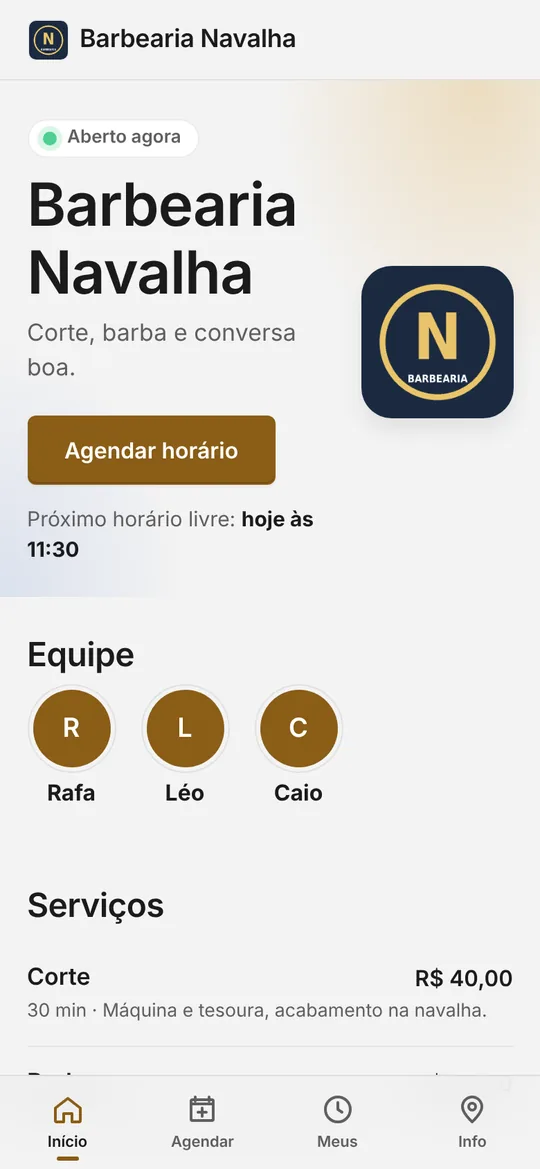
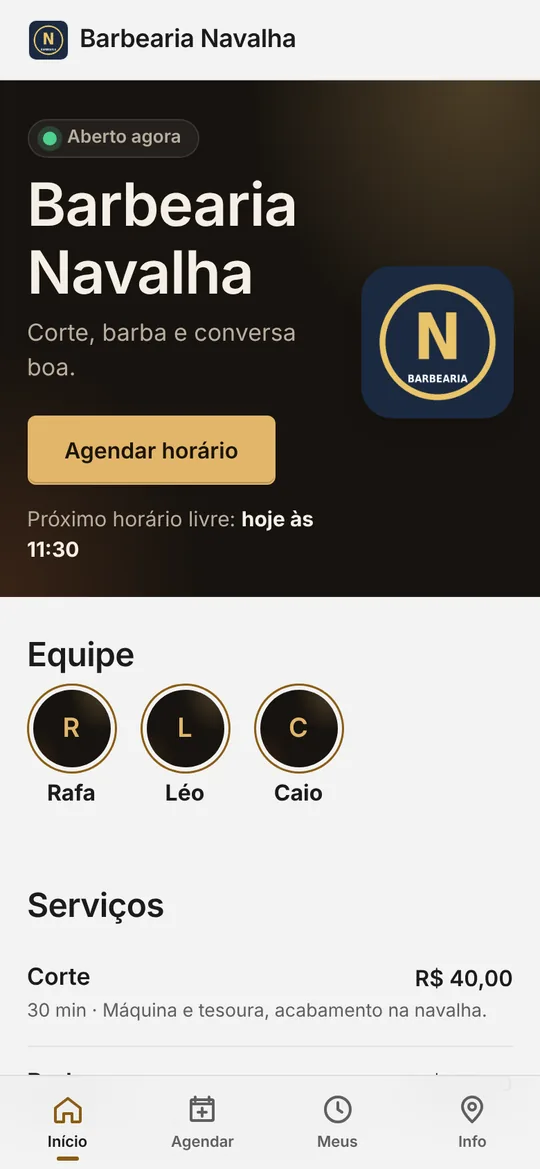
layout 3

diff --git a/404.html b/404.html
@@ -36,6 +36,9 @@
 <meta name="mobile-web-app-capable" content="yes">
 <meta name="apple-mobile-web-app-title" content="LKBarber">
 <meta name="apple-mobile-web-app-status-bar-style" content="black-translucent">
+<link rel="preconnect" href="https://fonts.googleapis.com">
+<link rel="preconnect" href="https://fonts.gstatic.com" crossorigin>
+<link href="https://fonts.googleapis.com/css2?family=Instrument+Serif:ital@0;1&display=swap" rel="stylesheet">
 <link rel="stylesheet" href="css/style.css">
 </head>
 <body>
@@ -45,7 +48,7 @@
 <div id="landing">
   <section class="l-hero">
     <div class="l-hero-txt">
-      <h1>A agenda da sua barbearia, no celular do cliente.</h1>
+      <h1>A agenda da sua barbearia, <em>no celular do cliente.</em></h1>
       <p class="l-sub">Seu link próprio, horários livres em tempo real e o cliente marca em 4 toques, só com o nome. Cada barbeiro com a sua agenda.</p>
       <div class="l-ctas"><a class="btn btn-grande" href="cadastro" data-link-l="/cadastro">Testar grátis por 14 dias</a>
         <a class="btn btn-grande btn-vidro" href="#planos">Ver planos</a></div>
@@ -67,7 +70,7 @@
   </section>
 
   <section class="band" id="antes-depois">
-    <h2>Chega de marcar horário no WhatsApp</h2>
+    <h2><span class="olho">Antes e depois</span>Chega de marcar horário <em>no WhatsApp</em></h2>
     <div class="antes-depois">
       <div class="ad antes"><h3>Sem o LKBarber</h3><ul>
         <li>Para o corte para responder "tem horário amanhã?"</li>
@@ -85,7 +88,7 @@
   </section>
 
   <section class="band palco" id="palco">
-    <h2>Marcou no celular dele, apareceu na sua agenda</h2>
+    <h2><span class="olho">Na prática</span>Marcou no celular dele, <em>apareceu na sua agenda</em></h2>
     <p class="palco-sub">Sem mensagem, sem anotar em caderno. O horário sai do celular do cliente e cai direto na agenda do barbeiro.</p>
     <div class="palco-cena" aria-hidden="true">
       <div class="pc-cel"><div class="pc-tela">
@@ -111,7 +114,7 @@
     </div>
   </section>
   <section class="band" id="beneficios">
-    <h2>Tudo o que a barbearia precisa</h2>
+    <h2><span class="olho">Recursos</span>Tudo o que a barbearia <em>precisa</em></h2>
     <div class="beneficios">
       <div class="bf"><svg viewBox="0 0 24 24" aria-hidden="true"><circle cx="12" cy="13" r="8"/><path d="M12 9v4l2.5 2M9 2h6M12 2v3M19 6l1.5-1.5"/></svg><h3>Agenda aberta 24h</h3><p>Domingo, madrugada, no meio do corte: o cliente marca sem você parar.</p></div>
       <div class="bf"><svg viewBox="0 0 24 24" aria-hidden="true"><path d="M7 3h7a2 2 0 0 1 2 2v6H7z"/><path d="M5 11h13v3H5zM4 9v5M19 9v5M8 14v4M15 14v4M6 18h11M11.5 18v3M8 21h7"/></svg><h3>Cada barbeiro com sua agenda</h3><p>O cliente escolhe com quem cortar ou "qualquer um". Cada barbeiro entra com o próprio login.</p></div>
@@ -123,7 +126,7 @@
   </section>
 
   <section class="band band-escura" id="telas">
-    <h2>Veja o app por dentro</h2>
+    <h2><span class="olho">Por dentro</span>Veja o app <em>de perto</em></h2>
     <p class="sub">Telas reais do LKBarber, com uma barbearia de exemplo.</p>
     <div class="telas" id="telasTrilho" tabindex="0" aria-label="Telas do app">
       <figure class="tela"><picture><source type="image/webp" srcset="img/tela-pagina.webp"><img src="img/tela-pagina.jpg" width="540" height="1169" loading="lazy" alt="Página da barbearia com logo, equipe e botão Agendar horário"></picture><figcaption><b>A página da barbearia</b>Seu logo, sua equipe, seus serviços e o próximo horário livre.</figcaption></figure>
@@ -135,7 +138,7 @@
   </section>
 
   <section class="band" id="como-funciona">
-    <h2>Como funciona</h2>
+    <h2><span class="olho">Passo a passo</span>Como <em>funciona</em></h2>
     <ol class="passos">
       <li><b>Crie sua barbearia</b><span>Escolha o endereço: <span class="dominio">lukbrdev.github.io/barbearia/</span><i>sua-barbearia</i>.</span></li>
       <li><b>Configure em minutos</b><span>Serviços, preços, horários, seu logo e a equipe. Cada barbeiro recebe um convite.</span></li>
@@ -144,7 +147,7 @@
   </section>
 
   <section class="band band-escura">
-    <h2>Um app, três visões</h2>
+    <h2><span class="olho">Para todo mundo</span>Um app, <em>três visões</em></h2>
     <div class="tres">
       <div><h3>Cliente</h3><ul><li>Agenda sem cadastro, só o nome</li><li>Escolhe o barbeiro ou "qualquer um"</li><li>Lembrete no calendário e aviso no WhatsApp</li><li>Cancela sozinho, sem ligar</li></ul></div>
       <div><h3>Barbeiro</h3><ul><li>Vê só a própria agenda</li><li>Conclui, marca falta, faz encaixe</li><li>Bloqueia as próprias folgas</li><li>Acompanha o que ganhou</li></ul></div>
@@ -153,7 +156,7 @@
   </section>
 
   <section class="band" id="planos">
-    <h2>Planos</h2>
+    <h2><span class="olho">Preços</span>Planos <em>sem surpresa</em></h2>
     <ul class="selos"><li>14 dias grátis</li><li>Sem fidelidade</li><li>Cartão, Pix ou boleto</li></ul>
     <div class="planos" id="lPlanos">
       <div class="plano"><h3>Solo</h3><p>Para quem atende sozinho.</p><p class="lim">1 barbeiro</p><a class="btn btn-sec" href="cadastro" data-link-l="/cadastro">Começar teste grátis</a></div>
@@ -165,7 +168,7 @@
   </section>
 
   <section class="band" id="perguntas">
-    <h2>Perguntas</h2>
+    <h2><span class="olho">Dúvidas</span>Perguntas <em>frequentes</em></h2>
     <details class="faq"><summary>O cliente precisa baixar algum app?</summary><p>Não. Ele abre o link da barbearia e agenda. Se quiser, instala na tela inicial pelo próprio navegador, com o ícone da sua barbearia.</p></details>
     <details class="faq"><summary>O cliente precisa criar conta?</summary><p>Não. Ele só digita o nome (e o WhatsApp, se você quiser pedir). Os horários dele ficam salvos no celular.</p></details>
     <details class="faq"><summary>E se dois clientes tentarem o mesmo horário?</summary><p>O sistema confere na hora de salvar. O segundo recebe o aviso e escolhe outro horário.</p></details>
@@ -177,7 +180,7 @@
   </section>
 
   <section class="band cta-final">
-    <h2>Comece hoje. Em 5 minutos sua agenda está no ar.</h2>
+    <h2>Comece hoje. <em>Em 5 minutos</em> sua agenda está no ar.</h2>
     <div class="l-ctas"><a class="btn btn-grande" href="cadastro" data-link-l="/cadastro">Criar minha barbearia grátis</a>
       <a class="btn btn-grande btn-ok" id="waVendas" href="https://wa.me/5538998504119?text=Ol%C3%A1!%20Quero%20saber%20mais%20sobre%20o%20LKBarber." target="_blank" rel="noopener">Tirar dúvidas no WhatsApp</a></div>
   </section>

diff --git a/index.html b/index.html
@@ -36,6 +36,9 @@
 <meta name="mobile-web-app-capable" content="yes">
 <meta name="apple-mobile-web-app-title" content="LKBarber">
 <meta name="apple-mobile-web-app-status-bar-style" content="black-translucent">
+<link rel="preconnect" href="https://fonts.googleapis.com">
+<link rel="preconnect" href="https://fonts.gstatic.com" crossorigin>
+<link href="https://fonts.googleapis.com/css2?family=Instrument+Serif:ital@0;1&display=swap" rel="stylesheet">
 <link rel="stylesheet" href="css/style.css">
 </head>
 <body>
@@ -45,7 +48,7 @@
 <div id="landing">
   <section class="l-hero">
     <div class="l-hero-txt">
-      <h1>A agenda da sua barbearia, no celular do cliente.</h1>
+      <h1>A agenda da sua barbearia, <em>no celular do cliente.</em></h1>
       <p class="l-sub">Seu link próprio, horários livres em tempo real e o cliente marca em 4 toques, só com o nome. Cada barbeiro com a sua agenda.</p>
       <div class="l-ctas"><a class="btn btn-grande" href="cadastro" data-link-l="/cadastro">Testar grátis por 14 dias</a>
         <a class="btn btn-grande btn-vidro" href="#planos">Ver planos</a></div>
@@ -67,7 +70,7 @@
   </section>
 
   <section class="band" id="antes-depois">
-    <h2>Chega de marcar horário no WhatsApp</h2>
+    <h2><span class="olho">Antes e depois</span>Chega de marcar horário <em>no WhatsApp</em></h2>
     <div class="antes-depois">
       <div class="ad antes"><h3>Sem o LKBarber</h3><ul>
         <li>Para o corte para responder "tem horário amanhã?"</li>
@@ -85,7 +88,7 @@
   </section>
 
   <section class="band palco" id="palco">
-    <h2>Marcou no celular dele, apareceu na sua agenda</h2>
+    <h2><span class="olho">Na prática</span>Marcou no celular dele, <em>apareceu na sua agenda</em></h2>
     <p class="palco-sub">Sem mensagem, sem anotar em caderno. O horário sai do celular do cliente e cai direto na agenda do barbeiro.</p>
     <div class="palco-cena" aria-hidden="true">
       <div class="pc-cel"><div class="pc-tela">
@@ -111,7 +114,7 @@
     </div>
   </section>
   <section class="band" id="beneficios">
-    <h2>Tudo o que a barbearia precisa</h2>
+    <h2><span class="olho">Recursos</span>Tudo o que a barbearia <em>precisa</em></h2>
     <div class="beneficios">
       <div class="bf"><svg viewBox="0 0 24 24" aria-hidden="true"><circle cx="12" cy="13" r="8"/><path d="M12 9v4l2.5 2M9 2h6M12 2v3M19 6l1.5-1.5"/></svg><h3>Agenda aberta 24h</h3><p>Domingo, madrugada, no meio do corte: o cliente marca sem você parar.</p></div>
       <div class="bf"><svg viewBox="0 0 24 24" aria-hidden="true"><path d="M7 3h7a2 2 0 0 1 2 2v6H7z"/><path d="M5 11h13v3H5zM4 9v5M19 9v5M8 14v4M15 14v4M6 18h11M11.5 18v3M8 21h7"/></svg><h3>Cada barbeiro com sua agenda</h3><p>O cliente escolhe com quem cortar ou "qualquer um". Cada barbeiro entra com o próprio login.</p></div>
@@ -123,7 +126,7 @@
   </section>
 
   <section class="band band-escura" id="telas">
-    <h2>Veja o app por dentro</h2>
+    <h2><span class="olho">Por dentro</span>Veja o app <em>de perto</em></h2>
     <p class="sub">Telas reais do LKBarber, com uma barbearia de exemplo.</p>
     <div class="telas" id="telasTrilho" tabindex="0" aria-label="Telas do app">
       <figure class="tela"><picture><source type="image/webp" srcset="img/tela-pagina.webp"><img src="img/tela-pagina.jpg" width="540" height="1169" loading="lazy" alt="Página da barbearia com logo, equipe e botão Agendar horário"></picture><figcaption><b>A página da barbearia</b>Seu logo, sua equipe, seus serviços e o próximo horário livre.</figcaption></figure>
@@ -135,7 +138,7 @@
   </section>
 
   <section class="band" id="como-funciona">
-    <h2>Como funciona</h2>
+    <h2><span class="olho">Passo a passo</span>Como <em>funciona</em></h2>
     <ol class="passos">
       <li><b>Crie sua barbearia</b><span>Escolha o endereço: <span class="dominio">lukbrdev.github.io/barbearia/</span><i>sua-barbearia</i>.</span></li>
       <li><b>Configure em minutos</b><span>Serviços, preços, horários, seu logo e a equipe. Cada barbeiro recebe um convite.</span></li>
@@ -144,7 +147,7 @@
   </section>
 
   <section class="band band-escura">
-    <h2>Um app, três visões</h2>
+    <h2><span class="olho">Para todo mundo</span>Um app, <em>três visões</em></h2>
     <div class="tres">
       <div><h3>Cliente</h3><ul><li>Agenda sem cadastro, só o nome</li><li>Escolhe o barbeiro ou "qualquer um"</li><li>Lembrete no calendário e aviso no WhatsApp</li><li>Cancela sozinho, sem ligar</li></ul></div>
       <div><h3>Barbeiro</h3><ul><li>Vê só a própria agenda</li><li>Conclui, marca falta, faz encaixe</li><li>Bloqueia as próprias folgas</li><li>Acompanha o que ganhou</li></ul></div>
@@ -153,7 +156,7 @@
   </section>
 
   <section class="band" id="planos">
-    <h2>Planos</h2>
+    <h2><span class="olho">Preços</span>Planos <em>sem surpresa</em></h2>
     <ul class="selos"><li>14 dias grátis</li><li>Sem fidelidade</li><li>Cartão, Pix ou boleto</li></ul>
     <div class="planos" id="lPlanos">
       <div class="plano"><h3>Solo</h3><p>Para quem atende sozinho.</p><p class="lim">1 barbeiro</p><a class="btn btn-sec" href="cadastro" data-link-l="/cadastro">Começar teste grátis</a></div>
@@ -165,7 +168,7 @@
   </section>
 
   <section class="band" id="perguntas">
-    <h2>Perguntas</h2>
+    <h2><span class="olho">Dúvidas</span>Perguntas <em>frequentes</em></h2>
     <details class="faq"><summary>O cliente precisa baixar algum app?</summary><p>Não. Ele abre o link da barbearia e agenda. Se quiser, instala na tela inicial pelo próprio navegador, com o ícone da sua barbearia.</p></details>
     <details class="faq"><summary>O cliente precisa criar conta?</summary><p>Não. Ele só digita o nome (e o WhatsApp, se você quiser pedir). Os horários dele ficam salvos no celular.</p></details>
     <details class="faq"><summary>E se dois clientes tentarem o mesmo horário?</summary><p>O sistema confere na hora de salvar. O segundo recebe o aviso e escolhe outro horário.</p></details>
@@ -177,7 +180,7 @@
   </section>
 
   <section class="band cta-final">
-    <h2>Comece hoje. Em 5 minutos sua agenda está no ar.</h2>
+    <h2>Comece hoje. <em>Em 5 minutos</em> sua agenda está no ar.</h2>
     <div class="l-ctas"><a class="btn btn-grande" href="cadastro" data-link-l="/cadastro">Criar minha barbearia grátis</a>
       <a class="btn btn-grande btn-ok" id="waVendas" href="https://wa.me/5538998504119?text=Ol%C3%A1!%20Quero%20saber%20mais%20sobre%20o%20LKBarber." target="_blank" rel="noopener">Tirar dúvidas no WhatsApp</a></div>
   </section>

diff --git a/js/painel.js b/js/painel.js
@@ -131,7 +131,7 @@
 
   function menuMais() {
     const it = dono()
-      ? [["equipe", "Equipe e acessos"], ["serv", "Serviços, preços e fotos"], ["prod", "Produtos à venda"], ["hor", "Horários de funcionamento"], ["assin", "Assinatura"], ["aj", "Ícone, dados, link e QR Code"]]
+      ? [["equipe", "Equipe e acessos"], ["serv", "Serviços, preços e fotos"], ["prod", "Produtos à venda"], ["hor", "Horários de funcionamento"], ["assin", "Assinatura"], ["aj", "Capa, ícone, dados, link e QR Code"]]
       : [];
     const b = U.modal(`<h2>${esc(ctx.b.nome)}</h2><p style="color:var(--mut);margin-top:-8px">${esc((S.usuario() || {}).email)} · ${dono() ? "Dono" : "Barbeiro"}</p>
       <div class="menu">${it.map(([k, t]) => `<button data-k="${k}">${t}</button>`).join("")}
@@ -442,6 +442,19 @@
     return new Blob([b], { type: "image/webp" === b.type ? "image/webp" : "image/jpeg" });
   }
 
+  // capa: lado maior até 1600px, mantém o formato da foto, WebP ~150–300 KB (limite do armazenamento: 1 MB)
+  async function fotoCapa(arq) {
+    const img = await carregarImagem(arq), k = Math.min(1, 1600 / Math.max(img.width, img.height));
+    const c = document.createElement("canvas"); c.width = Math.round(img.width * k); c.height = Math.round(img.height * k);
+    const g = c.getContext("2d"); g.imageSmoothingQuality = "high"; g.drawImage(img, 0, 0, c.width, c.height);
+    for (const q of [0.78, 0.65, 0.5]) {
+      let b = await new Promise(ok => c.toBlob(ok, "image/webp", q));
+      if (!b || b.type !== "image/webp") b = await new Promise(ok => c.toBlob(ok, "image/jpeg", q));
+      if (b && b.size < 950 * 1024) return b;
+    }
+    throw new Error("A foto ficou grande demais. Tente outra imagem.");
+  }
+
   // ---------- PRODUTOS (dono) ----------
   const temProdutos = () => (ctx.produtos || []).some(p => p.ativo);
   const fotoProd = p => p.foto_v ? S.fotoURL(ctx.bid, "prod-" + p.id + ".webp", p.foto_v) : null;
@@ -709,7 +722,15 @@
   function aj() {
     const c = cfg(), link = U.abs("/" + ctx.b.slug);
     const ic = U.iconesDe(ctx.bid, c.logo);
-    box().innerHTML = `<h2>Ícone da barbearia</h2>
+    const capa = c.capa && c.capa.v ? S.fotoURL(ctx.bid, "capa.webp", c.capa.v) : null, esc0 = c.capa && c.capa.escurecer != null ? c.capa.escurecer : 55;
+    box().innerHTML = `<h2>Capa da página</h2>
+      <p class="sub" style="margin-top:0">Uma foto da sua barbearia no topo da página que o cliente abre. Fica atrás do nome, escurecida para o texto aparecer bem.</p>
+      <div class="capa-prev" id="capaPrev" style="${capa ? `background-image:url('${esc(capa)}');` : ""}--capa-op:${esc0 / 100}"><small id="capaAviso">${capa ? "Prévia" : "Sem capa: aparece o fundo padrão"}</small><b>${esc(ctx.b.nome)}</b></div>
+      <label class="capa-op">Escurecer<input type="range" id="capaOp" min="0" max="90" step="5" value="${esc0}" aria-label="Quanto escurecer a capa"><output id="capaOpV">${esc0}%</output></label>
+      <div class="seg" style="margin:8px 0 0"><button class="btn btn-mini" id="ajCapa">${capa ? "Trocar foto" : "Enviar foto"}</button>
+        <button class="btn btn-mini btn-sec" id="ajCapaSalvar" hidden>Salvar escurecimento</button>
+        ${capa ? `<button class="btn btn-mini btn-sec" id="ajSemCapa">Remover capa</button>` : ""}</div>
+      <h2 style="margin-top:28px">Ícone da barbearia</h2>
       <div class="icone-atual"><div class="ic-grande">${ic ? `<img src="${esc(ic.i192)}" alt="Ícone atual" width="88" height="88">` : `<svg viewBox="0 0 24 24" aria-hidden="true"><use href="#poste"/></svg>`}</div>
         <div><p class="sub" style="margin:0 0 10px">${ic ? "Este é o ícone do app instalado pelos seus clientes." : "Sem ícone próprio: os clientes veem o poste de barbeiro."} Use o logo em PNG ou JPG, de preferência quadrado.</p>
         <div class="seg" style="margin:0"><button class="btn btn-mini" id="ajIcone">${ic ? "Trocar ícone" : "Enviar ícone"}</button>${ic ? `<button class="btn btn-mini btn-sec" id="ajSemIcone">Remover</button>` : ""}</div></div></div>
@@ -730,6 +751,19 @@
       <button class="btn btn-sec" id="ajNotif">Ativar notificações</button>
       <h2 style="margin-top:28px">Backup</h2><button class="btn btn-sec" id="ajExp">Baixar agendamentos (CSV)</button>`;
     $("#ajIcone").onclick = escolherIcone;
+    // capa: prévia ao vivo do escurecimento; a foto é reduzida e comprimida no próprio celular antes de subir
+    const prevCapa = $("#capaPrev"), opIn = $("#capaOp"), btSalvarOp = $("#ajCapaSalvar");
+    opIn.oninput = () => { prevCapa.style.setProperty("--capa-op", opIn.value / 100); $("#capaOpV").textContent = opIn.value + "%"; if (capa) btSalvarOp.hidden = Number(opIn.value) === esc0; };
+    btSalvarOp.onclick = async () => { await salvarCfg({ capa: Object.assign({}, c.capa, { escurecer: Number(opIn.value) }) }); aj(); };
+    $("#ajCapa").onclick = () => escolherArquivo(async arq => {
+      const bt = $("#ajCapa"); bt.disabled = true; bt.textContent = "Enviando…";
+      try {
+        const blob = await fotoCapa(arq);
+        await S.enviarLogo(ctx.bid, [{ nome: "capa.webp", blob }]);
+        await salvarCfg({ capa: { v: Date.now(), escurecer: Number(opIn.value) } }); aj();
+      } catch (er) { U.toast(er.message || "Não foi possível enviar a foto."); bt.disabled = false; bt.textContent = capa ? "Trocar foto" : "Enviar foto"; }
+    });
+    const sc = $("#ajSemCapa"); if (sc) sc.onclick = async () => { await salvarCfg({ capa: null }); aj(); };
     const si = $("#ajSemIcone"); if (si) si.onclick = async () => { await salvarCfg({ logo: null }); desenhar(); };
     $("#ajCp").onclick = () => U.copiar(link);
     $("#ajQr").onclick = () => qr(link);

diff --git a/css/style.css b/css/style.css
@@ -605,3 +605,57 @@ legend b{background:var(--verm);color:var(--verm-tx);border-radius:999px}
 /* espuma de barbear que segue o mouse no topo (só computador) */
 .espuma{position:absolute;inset:0;width:100%;height:100%;pointer-events:none;z-index:0}
 .l-hero>*:not(.espuma){position:relative;z-index:1}
+
+/* =====================================================================
+   PERSONALIDADE: base Fluent + faixas "noite de barbearia" (café escuro com brilho de latão),
+   destaque em serifa itálica (Instrument Serif) e rótulos de seção.
+   ===================================================================== */
+:root{--f-serifa:"Instrument Serif","Iowan Old Style",Georgia,"Times New Roman",serif;
+  --noite:radial-gradient(70% 90% at 88% 0%,rgba(226,182,107,.26),transparent 60%),
+          radial-gradient(60% 80% at 0% 100%,rgba(176,96,46,.22),transparent 62%),#17130f}
+h1 em,h2 em{font-family:var(--f-serifa);font-style:italic;font-weight:400;letter-spacing:0;color:var(--verm);font-size:1.12em;line-height:1}
+.olho{display:flex;align-items:center;gap:10px;margin-bottom:10px;font-family:var(--f-texto);font-size:12px;font-weight:700;letter-spacing:.14em;text-transform:uppercase;color:var(--verm)}
+.olho::before{content:"";width:22px;height:2px;border-radius:2px;background:currentColor}
+
+/* faixas escuras: topo, telas do app, três visões, horário de funcionamento, chamada final */
+.l-hero,.hero,.band-escura,.cta-final{
+  --ink:#f5efe6;--mut:#b9ae9e;--linha:rgba(255,255,255,.1);--borda:rgba(255,255,255,.1);--borda-forte:rgba(255,255,255,.3);
+  --cartao:rgba(255,255,255,.06);--camada:rgba(255,255,255,.04);--tinta:rgba(226,182,107,.16);
+  --verm:#e2b66b;--verm-tx:#1b1408;color:var(--ink);background:var(--noite);border-block:0}
+.l-hero h1{font-size:clamp(38px,6.4vw,66px);line-height:1.04}
+.l-hero h1 em{display:inline-block;font-size:1.1em}
+.l-hero .celular{box-shadow:0 40px 80px rgba(0,0,0,.55),0 0 0 1px rgba(255,255,255,.06);rotate:3deg}
+.btn-sec,.btn-vidro{backdrop-filter:blur(8px)}
+.cta-final h2{font-size:clamp(28px,5vw,44px)}
+
+/* cartões com mais caráter */
+.bf{position:relative;overflow:hidden;transition:transform .2s,box-shadow .2s}
+.bf::after{content:"";position:absolute;left:0;top:0;bottom:0;width:3px;background:var(--verm);opacity:0;transition:opacity .2s}
+.bf:hover{transform:translateY(-3px);box-shadow:var(--s3)}.bf:hover::after{opacity:1}
+.bf svg{background:var(--verm);stroke:var(--verm-tx);border-radius:12px}
+.passos li::before{font-family:var(--f-serifa);font-style:italic;font-weight:400;font-size:44px;width:auto;height:auto;background:none;color:var(--verm);display:block;margin:0 0 2px;line-height:1}
+.depois{background:var(--noite);color:#f5efe6;border:0;box-shadow:var(--s3);--mut:#b9ae9e}
+.depois li::before{color:#e2b66b}
+.plano.destaque{background:var(--noite);color:#f5efe6;border:0;box-shadow:var(--s4);--mut:#b9ae9e;--verm:#e2b66b;--verm-tx:#1b1408;--cartao:rgba(255,255,255,.06);--borda:rgba(255,255,255,.12);--ink:#f5efe6}
+.plano.destaque .tag{background:#e2b66b;color:#1b1408}
+.preco-plano{font-family:var(--f-texto)}
+.kpi.destaque{background:var(--noite);color:#f5efe6}
+.equipe-pub .avatar{background:var(--noite);color:#e2b66b;box-shadow:0 0 0 3px var(--bg),0 0 0 4.5px var(--verm)}
+legend b{font-family:var(--f-serifa);font-style:italic;font-weight:400;font-size:17px}
+.faq summary::after{content:"+";margin-left:auto;font-size:22px;color:var(--verm);transition:rotate .2s}
+.faq[open] summary::after{rotate:45deg}
+.faq summary{gap:12px;list-style:none}.faq summary::-webkit-details-marker{display:none}
+
+/* capa da barbearia (foto de fundo no topo da página, com escurecimento escolhido pelo dono) */
+.hero.com-capa{background:#111 var(--capa) center/cover no-repeat;isolation:isolate;min-height:clamp(260px,46vw,380px)}
+.hero.com-capa::before{content:"";position:absolute;inset:0;z-index:-1;
+  background:linear-gradient(180deg,rgba(0,0,0,calc(var(--capa-op,.55) * .7)),rgba(0,0,0,var(--capa-op,.55)) 70%)}
+.hero.com-capa h1,.hero.com-capa .slogan,.hero.com-capa .proximo{text-shadow:0 1px 12px rgba(0,0,0,.45)}
+.capa-prev{position:relative;aspect-ratio:16/8;border-radius:10px;overflow:hidden;background:var(--noite) center/cover no-repeat;display:flex;align-items:flex-end;padding:16px;color:#fff;box-shadow:var(--s2);border:1px solid var(--borda)}
+.capa-prev::before{content:"";position:absolute;inset:0;background:rgba(0,0,0,var(--capa-op,.55))}
+.capa-prev b{position:relative;font-family:var(--f-titulo);font-size:24px;font-weight:600;text-shadow:0 1px 10px rgba(0,0,0,.5)}
+.capa-prev small{position:absolute;top:12px;left:14px;font-size:12px;opacity:.85}
+.capa-op{display:flex;align-items:center;gap:12px;margin:12px 0 4px;font-weight:600;font-size:14px}
+.capa-op input{flex:1}.capa-op output{min-width:44px;text-align:right;font-variant-numeric:tabular-nums}
+@media(prefers-reduced-motion:reduce){.bf,.bf::after{transition:none}.bf:hover{transform:none}}
+input[type=range],input[type=range]:focus{border:0;box-shadow:none;background:none;min-height:32px;padding:0;accent-color:var(--verm)}

diff --git a/js/cliente.js b/js/cliente.js
@@ -61,7 +61,9 @@
   }
   async function inicio() {
     const { cfg, b, profs } = atual, ab = abertoAgora(cfg), hj = new Date().getDay(), lib = A.liberada(b, U.hoje());
-    app().innerHTML = `<div class="hero">
+    const capa = cfg.capa && cfg.capa.v ? S.fotoURL(b.id, "capa.webp", cfg.capa.v) : null;
+    const opCapa = Math.min(0.9, Math.max(0, (cfg.capa && cfg.capa.escurecer != null ? cfg.capa.escurecer : 55) / 100));
+    app().innerHTML = `<div class="hero${capa ? " com-capa" : ""}"${capa ? ` style="--capa:url('${esc(capa)}');--capa-op:${opCapa}"` : ""}>
       <div class="hero-txt"><p class="aberto ${ab ? "on" : ""}">${ab ? "Aberto agora" : "Fechado agora"}</p>
         <h1>${esc(b.nome)}</h1><p class="slogan">${esc(cfg.slogan || "")}</p>
         ${lib ? `<a class="btn btn-grande" href="/${esc(b.slug)}/agendar" data-link>Agendar horário</a><p class="proximo" id="proximoLivre"></p>`

diff --git a/privacidade/index.html b/privacidade/index.html
@@ -7,6 +7,9 @@
 <meta name="description" content="Como o LKBarber trata os dados de donos, barbeiros e clientes das barbearias, conforme a LGPD.">
 <meta name="theme-color" content="#16181d">
 <link rel="icon" href="../icons/icon-192.png">
+<link rel="preconnect" href="https://fonts.googleapis.com">
+<link rel="preconnect" href="https://fonts.gstatic.com" crossorigin>
+<link href="https://fonts.googleapis.com/css2?family=Instrument+Serif:ital@0;1&display=swap" rel="stylesheet">
 <link rel="stylesheet" href="../css/style.css">
 <style>
 .legal{max-width:760px;margin:0 auto;padding:32px max(5vw,18px) 56px}

diff --git a/termos/index.html b/termos/index.html
@@ -7,6 +7,9 @@
 <meta name="description" content="Termos de uso do LKBarber: teste grátis, planos, pagamento, cancelamento e responsabilidades.">
 <meta name="theme-color" content="#16181d">
 <link rel="icon" href="../icons/icon-192.png">
+<link rel="preconnect" href="https://fonts.googleapis.com">
+<link rel="preconnect" href="https://fonts.gstatic.com" crossorigin>
+<link href="https://fonts.googleapis.com/css2?family=Instrument+Serif:ital@0;1&display=swap" rel="stylesheet">
 <link rel="stylesheet" href="../css/style.css">
 <style>
 .legal{max-width:760px;margin:0 auto;padding:32px max(5vw,18px) 56px}

diff --git a/sw.js b/sw.js
@@ -1,5 +1,5 @@
 // Service worker: offline + instalável. Troque VERSAO a cada atualização publicada.
-const VERSAO = "lkbarber-v10";
+const VERSAO = "lkbarber-v11";
 const ESCOPO = self.registration.scope; // "/" ou "/repo/" no GitHub Pages
 const ARQUIVOS = ["./", "index.html", "css/style.css", "js/config.js", "js/agenda.js", "js/store.js", "js/app.js", "js/landing.js",
   "js/cliente.js", "js/painel.js", "js/admin.js", "js/movimento.js", "manifest.webmanifest", "icons/icon-192.png", "icons/icon-512.png", "icons/maskable-512.png", "icons/apple-touch-icon.png"];
